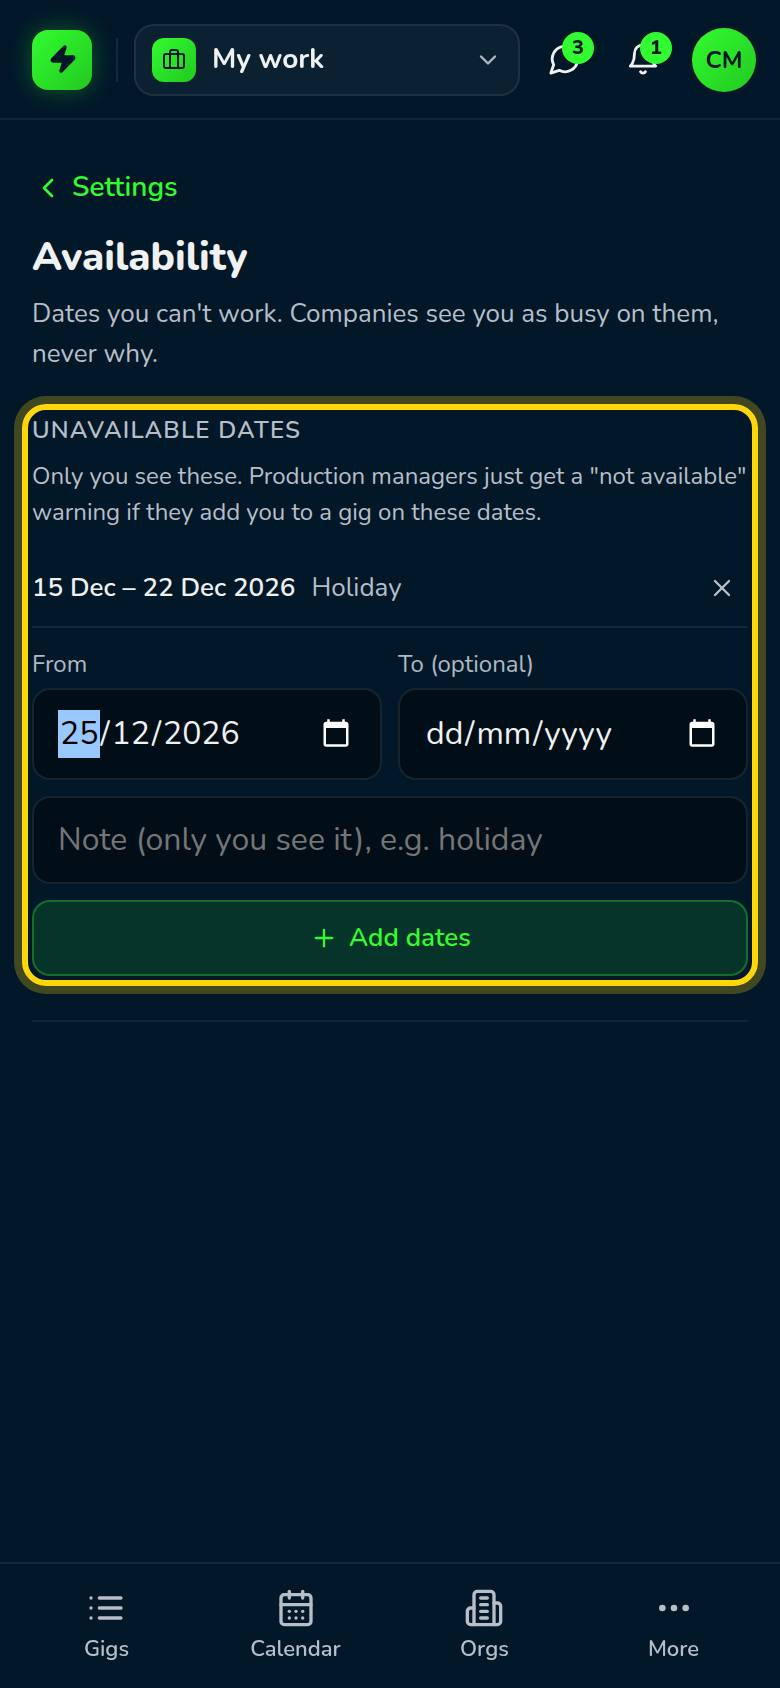
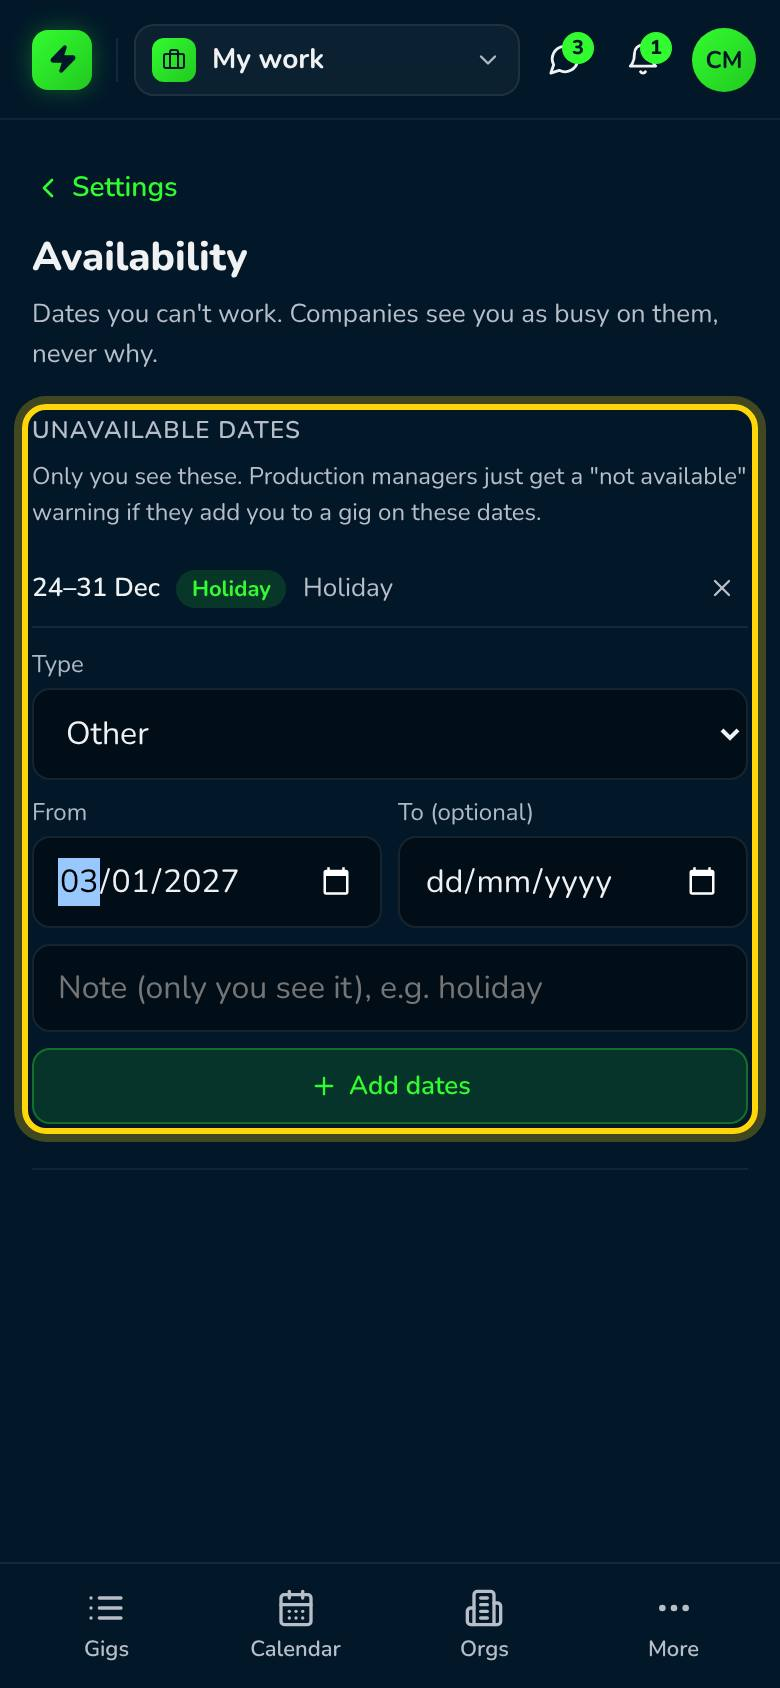
Leave requests: types, approval, holiday days, working week, who is away (step 9) — 0.67.0
Claude-Session: https://claude.ai/code/session_01TrujDKyCvofSE7GkEahm3x

diff --git a/e2e/auth/journey.spec.js b/e2e/auth/journey.spec.js
@@ -236,6 +236,29 @@ test('someone invited by email before having an account joins the gig on sign-up
   await pmContext.close()
 })
 
+test('an admin asks for leave, approves it and sees it as approved', async ({ page }) => {
+  await english(page)
+  await signIn(page, pm)
+  await page.getByTitle(/Workspace:/).click()
+  await page.getByRole('menuitemradio', { name: new RegExp(ORG) }).click()
+  await expect(page).toHaveURL(/\/org\/[0-9a-f-]{36}$/)
+  await page.goto(`${page.url()}/leave`)
+  await expect(page.getByRole('heading', { name: 'Leave', exact: true })).toBeVisible()
+  await expectAccessible(page)
+  const from = new Date(Date.now() + 40 * 86400e3).toISOString().slice(0, 10)
+  await page.getByRole('button', { name: 'Ask for leave' }).first().click()
+  const dialog = page.getByRole('dialog')
+  await dialog.locator('#leave-type').selectOption('holiday')
+  await dialog.getByLabel('From', { exact: true }).fill(from)
+  await expectAccessible(page)
+  await dialog.getByRole('button', { name: 'Send request' }).click()
+  const waiting = page.locator('section[aria-labelledby="leave-requests"]')
+  await expect(waiting.getByText('1 request waiting for you')).toBeVisible({ timeout: 15_000 })
+  await waiting.getByRole('button', { name: 'Approve' }).click()
+  await expect(waiting).toHaveCount(0)
+  await expect(page.locator('section[aria-labelledby="leave-mine"]').getByText('Approved', { exact: true })).toBeVisible()
+})
+
 test('the logo goes home and the workspace switcher lists My work and the organisation', async ({ page }) => {
   await english(page)
   await signIn(page, pm)

diff --git a/docs/PENDING.md b/docs/PENDING.md
@@ -108,6 +108,7 @@ Use your second email address as a crew member. Each line is a few minutes. New 
 | T67 | **Capture for reports (K0, 0.64.0):** migrations `20261210000000_report_capture.sql`, `20261210000001_import_gig_client.sql` and `20261210000002_import_item_cost.sql` applied to test and production through the Supabase connector on 2026-11-02; `supabase/tests/report_capture.sql` and `supabase/tests/import_jobs.sql` passed on test, and the function bodies are identical on both. Nothing left to deploy (no Edge Function changed); the screens go live when the PR is merged. Check: in a quote, set the status to Declined: it asks why (pick one, or Skip); the button next to the status shows the reason. Send a quote to yourself and decline it through the link with a note: the quote shows Declined and the note is kept. Create a gig and pick a client; edit it and change the client; as a crew member who manages a gig, the client field isn't there. In a quote with a client, "Create gig": the new gig has that client. In Inventory, edit an item: Cost price and Written off over (months); Add stock → Purchase starts with the cost price; Remove → Sold asks the price each; set a unit to Retired: it asks its sale or payout value and date. Record an inspection with a cost. Import a jobs file whose client column matches a client in Contacts, and an equipment file with a "Cost price" column. Download the organisation export: the new columns are in the items, units, movements, gigs, quotes and inspections files. Check the Portuguese wording | 0.64.0 |
 | T68 | **Crew-rate follow-ups (step 7b, 0.65.0):** migrations `20261211000000_crew_call_fees.sql` and `20261211000001_offer_fees.sql` applied to test and production through the Supabase connector on 2026-11-04; `supabase/tests/crew_call_fees.sql` passed on test, and the function bodies are identical on both. Nothing to deploy; the screens go live when the PR is merged. Check, as an organisation admin with a rate for a function (e.g. "Sound technician", 200 per day): on a gig's Crew tab → Crew call, type that function: the fee fills in (a gig with weekend days and a weekend factor gives one fixed amount); change it, then "Use the rate card's fee". Send it to a test account: their message and notification show the fee; they accept; your "Labour cost" shows them as "Agreed" with that fee, and they see it under "Your fee". Post a job and choose the function (or type the title): the pay fills in from the day rate; typing your own amount keeps it. In Find crew, "Offer a place" to someone: the same fee fields, using their own rate if they have one. In Job posts → Applicants, "Offer the place": a window shows the fee from the rate they sent (or the post's pay), editable; the old OK/Cancel box is gone. Accepting either offer makes the fee agreed under "Labour cost". In a quote, a crew line whose description is the function shows "Rate card cost … · margin …" under it, and the Summary tab shows "Crew margin"; the printed quote, the PDF and the client's link don't. Check the Portuguese wording | 0.65.0 |
 | T69 | **Time registration (step 8, 0.66.0):** migration `20261212000000_time_registration.sql` applied to test and production through the Supabase connector on 2026-11-04; `supabase/tests/time_registration.sql` (both blocks) passed on test, and the ten function bodies are identical on both. **After merging, deploy three Edge Functions to production and test** (they use the new notification texts and the feed's hours): `send-push` and `send-digest` (Verify JWT off, as now) and `calendar-feed` (Verify JWT off), or ask Claude to. Check, as an organisation admin: Settings → Crew rates: set the night window, a rate per km and add a holiday. On a gig with a test crew account: as the crew member, Crew tab → "Log hours" (start and end come from the booking or schedule), add a break, travel and km, send; turn off Wi-Fi, log another day: it shows "Not sent yet" and goes when Wi-Fi is back. On a gig day, On-site mode → "Clock in", later "Clock out". As the admin: the bell says hours came in; the gig's Hours shows each waiting day's split and cost; send one back with a note (the crew member gets it, edits, it waits again), approve it; it can't be changed after. "Labour cost" shows the actual cost next to the planned. My work → "My hours" and Organisation → "Hours" show the month, with CSV. The crew member never sees anyone else's hours or cost. Download the organisation export: the hours and holidays files are there. Subscribe to your calendar feed: the gig shows your logged hours. Check the Portuguese wording | 0.66.0 |
+| T70 | **Leave requests (step 9, 0.67.0):** migration `20261213000000_leave_requests.sql` applied to test and production through the Supabase connector on 2026-11-04; `supabase/tests/leave_requests.sql` passed on test (as did the unavailable-dates part of `rls_smoke.sql`), and the 19 function bodies are identical on both. **Apply `20261213000001_leave_requests_removal.sql` by hand** in the SQL editor of test, then production (one `alter policy`: organisation leave can only be removed by marking it; Claude doesn't run it because it names the removal policy). **After merging, deploy three Edge Functions to production and test**: `send-push` and `send-digest` (Verify JWT off, as now; the new leave notification texts) and `calendar-feed` (Verify JWT off; leave in the feed), or ask Claude to. Check, with an admin and a member test account: as the member, Organisation → Leave → "Ask for leave" (Holiday, a week): the form shows 5 working days and "an admin approves it"; send. As the admin: the bell says a request came in; Leave shows it under "requests waiting for you"; refuse one with a note and approve another: the member is told both times. The member's balance drops by the approved days. As the member, ask for a Sick day yesterday: it is approved at once and the admin is told. Under "Holiday days and working weeks", set 25 days for the organisation, then Edit the member: own allowance 23, carried 2, Monday to Thursday, 9 h; the balance follows. Add the member to a gig on an approved holiday day: the Crew tab shows "Not available" and Find crew "free only" leaves them out; logging hours on that day says it is approved leave. A half day (morning only) still allows hours. A colleague (another member) sees the leave in "Who is away" but a sick day only as "Away", with no notes; someone from another company only sees "busy". Removing approved leave (×) frees the day and tells the admins. My work → Availability shows a type on each date and the organisation leave with its status. Download the organisation export: leave, holiday days, working weeks and leave settings files are there. Subscribe to the calendar feed: approved leave shows as all-day events. Check the Portuguese wording | 0.67.0 |
 
 ## 3. Decisions still open
 
@@ -154,6 +155,7 @@ Each has a default already built; nothing is blocked. Say "keep" or "change".
 | D37 | **Crew-rate follow-ups (7b)**, built as you decided (fee seen before accepting, one fee per call) plus these defaults: (a) with weekend days at a higher rate, a call offers the total as one fixed amount rather than an average day rate; (b) quote crew lines are matched to the rate card by their description, per day and per hour only (half days, units and lump sums show no cost), and only on EUR quotes; (c) the quote's crew margin is before the phase and quote discounts (the labour panel's margin stays after the discount); (d) a job post's pay uses the day rate, not the weekend factor. Say if any should change | Built as described | 0.65.0 |
 | D38 | ✅ (decided 2026-11-04) **Import overhaul, "fix it here"**: yes, as IM1–IM4 in any gap ([SWITCHING.md](SWITCHING.md)). Every problem in the import gets a fix where it shows up; what a fix adds is saved only when Import is pressed; the database part (IM3: one undo, exact picks, archived restores, remembered fixes) is included as IM3, also switching bulk equipment to per unit; columns into custom fields in IM2; the history import (D26) as IM4. Each migration is outlined for your yes first | Planned (IM1–IM4) | 2026-11-04 |
 | D39 | **Time registration (step 8)**, built as you decided (night window per organisation from 22:00–07:00, Portuguese holidays built in plus your own, travel at the plain hour rate and km at a rate per km, day fees plus extras) with these defaults: (a) **one entry per person per gig per day** (a split shift is one start–end with the gap as break); (b) the break is taken out of the cheapest hours, and overtime starts after the break; (c) a PM may **approve their own hours**; (d) approved days **can't be reopened**, even by an admin (a mistake needs a database fix) — add an admin "reopen"?; (e) the organisation's Hours page and everyone's cost are **admins only** (members see hours only on gigs they manage), as proposed in D23; (f) a freelance PM approving someone with no agreed fee stores **no cost** (they can't read the rate card); (g) a fixed fee is counted once per gig in the labour panel but **not** in the organisation Hours page's cost, which adds up approved days only. Say if any should change | Built as described | 0.66.0 |
+| D40 | **Leave requests (step 9)**, built as you decided (half days too; 22 holiday days per organisation with a per-person number for a year; carry-over typed by an admin per person; sick days entered after the fact without approval, the admins are told) with these defaults: (a) **viewers** are not staff: they don't ask for leave or see who is away; (b) members see colleagues' approved leave, but a **sick day only as "away"** and never the notes (health data, see DATA_MAP.md); (c) an admin can **enter leave for someone**, approved at once, and can still **refuse approved leave** (a sick day by mistake); (d) asked or approved leave **can't be moved**: remove it and ask again; (e) a **half day** blocks only that morning or afternoon in clashes (13:00 is the split) but the whole day in Find crew's "free only", and still allows hours; (f) a **freelancer's own dates** don't block hours (only organisation leave does); (g) admins asking for their own leave also go through approval (another admin, or themselves); (h) only holiday counts against the balance (training, sick and other don't). Say if any should change | Built as described | 0.67.0 |
 
 ## 4. Before a public launch (already in the roadmap)
 

diff --git a/docs/BUSINESS.md b/docs/BUSINESS.md
@@ -82,24 +82,26 @@ When a step here is built, its session adds a "How … works" section below in t
 | Export and feed | Organisation export: `time_entries` and `org_holidays` files, the factors file with the new columns (the export function was renamed `export_org_part_pre_step8` and wrapped). The calendar feed lists the person's own logged days in each gig's description |
 | Reports | K2, K7 and K8 read approved `time_entries` (`split`, `cost`); a fixed fee is added once per person and gig |
 
+## How leave requests work (step 9, 0.67.0)
+
+| Piece | How it works |
+|---|---|
+| Data | `crew_unavailability` (a person's own dates since 0.12) gained `type` (holiday, sick, training, other), `org_id` (empty for a freelancer's own dates), `status` (requested → approved or refused; cancelled when removed), `start_half` / `end_half` (afternoon of the first day, morning of the last), `days` (working days used, set by the database), who decided, when and the note, and `removed_at`. Rows from before stay approved "other" dates. New tables: `org_leave_settings` (holiday days per year, default 22), `staff_leave_years` (a person's own allowance for a year and the days carried over, typed by an admin), `staff_work_weeks` (ISO weekdays, default Monday to Friday, and hours a day). Migrations `20261213000000_leave_requests.sql` and `20261213000001_leave_requests_removal.sql` (applied by hand: hard removal stays only for freelance dates) |
+| Who | Staff = an organisation's admins and members (not viewers). Each asks for their own leave; holiday, training and other start as `requested`, sick is `approved` at once (past days allowed; requests start from today); an admin may enter leave for staff, approved at once. Only `decide_leave` changes the status: admins approve, or refuse with a note (approved leave can still be refused, e.g. a sick day by mistake). Asked or approved leave can't be moved, only removed (marked) and asked again. Admins read their organisation's leave; members read the calendar through `org_leave_calendar` (no notes, a colleague's sick day as "away", requests only their own); other companies only ever get "busy" through the reservations. Checks in `supabase/tests/leave_requests.sql` |
+| Days | `private.leave_days` counts the person's working weekdays in the range, without Portugal's national holidays (`private.pt_holiday`, Easter-based ones computed, the same list as `src/lib/timeRegistration.js`) and the organisation's `org_holidays`; a half first or last day counts 0.5; without an organisation every day counts. `src/lib/leave.js` (unit tested) counts the same way for the form's preview |
+| Balances | `leave_balances(org, year)`: per member of staff, allowance (their own for the year, else the organisation's), carried, used (approved holiday that year), asked (waiting), left, their working days and hours a day. Admins get everyone, others only themselves. Leave across New Year counts in each year |
+| Blocking | Only approved, not removed entries block. Reservations (clashes on a gig's Crew tab, the network picker's ⚠) are confirmed only then, and a half day starts or ends at 13:00 Lisbon time; `person_conflicts` and Find crew's `crew_busy` filter the same way. Time registration: `time_entries_leave` refuses hours on a whole day of approved organisation leave ("On leave that day"); half days and freelance dates don't block hours |
+| Notifications | `leave_requested` and `leave_sick` to the organisation's admins, `leave_cancelled` when someone removes approved leave, `leave_approved` / `leave_refused` (with the note) to the person, `leave_approved` also when an admin enters leave for them. All count as direct (shown even when the organisation is muted); they open `/org/:id/leave` |
+| Screens | `pages/LeavePage.jsx` at `/org/:orgId/leave` (menu: Organisation → Leave, admins and members): ask for leave, your balance, who is away (month, day by day), your leave (remove with ×); admins also get the requests waiting (`components/leave/LeaveAdmin.jsx`), "Add for someone", and holiday days and working weeks (organisation's days per year; per person: own allowance, carried, working days, hours a day). `components/leave/LeaveParts.jsx` has the form and the chips. Account → Availability shows a type on each date, the person's organisation leave with its status, and a button per organisation to ask for leave |
+| Feed and export | The calendar feed adds the person's approved leave and unavailable dates as all-day events. Organisation export: `leave_settings`, `work_weeks`, `leave_years` and `leave` files (the export function was renamed `export_org_part_pre_step9` and wrapped) |
+| Reports | `staff_utilisation(org, from, to)` (admins): per member of staff, working days, approved leave days per type, days and hours available, approved hours logged on the organisation's gigs. K7 builds on it |
+
 ## Planned
 
 Specs for the business steps still to build, in ROADMAP.md order. Each is a starting point: the
 session that builds it reads its spec, checks it against the code, and **asks the owner the
 questions marked "Ask" before outlining the migration**. When built, the spec is replaced by a
 "How … works" section above.
-
-### 9 · Leave requests [5]
-
-- Builds on `crew_unavailability` (a person's own unavailable dates). Adds **types** (holiday,
-  sick, training, other) and, for an organisation's **staff** (admins and members), a request that
-  an admin approves or refuses. Freelancers keep marking dates without approval.
-- **Balances** per staff member per year for holiday days (Ask: whole days only? carry-over?).
-- Approved leave blocks the person like unavailability: clashes, Find crew "free", the network
-  picker's ⚠, and time registration (no hours on leave days).
-- Organisation calendar of who is away; notifications to the person and the admins.
-- A **working week** per staff member (default Monday to Friday), so reports (K7) can count
-  utilisation.
 
 ### 9b · Expenses
 

diff --git a/CHANGELOG.md b/CHANGELOG.md
@@ -1,5 +1,42 @@
 # Changelog
 
+## 0.67.0 — Leave
+
+### Added
+- **Leave requests** (step 9, [docs/BUSINESS.md](docs/BUSINESS.md)). An organisation's staff
+  (admins and members) ask for leave in the new **Leave** page: holiday, sick, training or other,
+  with a half day at the start or end if needed. The form shows how many working days it uses.
+  Holiday, training and other wait for an admin, who approves or refuses (with a reason the person
+  sees); both sides get a notification. A sick day counts at once, even for days already past, and
+  the admins are told. Admins can also enter leave for someone, which counts at once.
+- **Holiday days.** Each organisation has its holiday days per year (22 to start). An admin can
+  give a person their own number for a year and type the days carried over from last year
+  (nothing carries over by itself). Everyone sees their own balance: allowance, carried, taken,
+  waiting and left; admins see everyone's.
+- **Working week** per member of staff: their working days (Monday to Friday to start) and hours
+  a day. Leave only counts working days, leaving out weekends off, Portugal's national holidays
+  and the organisation's own.
+- **Who is away**: the month day by day, for the organisation's admins and members. Members see a
+  colleague's sick day only as "away", and never the notes.
+- **Types for your own dates.** Freelancers' unavailable dates (My work → Availability) now have a
+  type too, and still need no approval. Staff see their organisation leave there with its status,
+  and a button to ask each organisation for leave.
+
+### Connected
+- Approved leave makes the person busy everywhere unavailable dates did: clashes on a gig's Crew
+  tab, Find crew's "free only", and the ⚠ in the network picker (a half day only blocks that
+  morning or afternoon). A request waiting for approval doesn't block anyone yet. Other companies
+  still only see "busy", never the type.
+- Time registration: no hours can be logged on a whole day of approved leave (a half day still
+  allows them).
+- Notifications in the app, by push and in the email summary; your calendar feed (your approved
+  leave and unavailable dates as all-day events); the organisation export (new leave, holiday
+  days, working weeks and settings files).
+- Reports (K7): the database can now count each person's working days, leave by type, days and
+  hours available and approved hours logged, ready for the K7 people reports.
+- Help: two guides with pictures ("Ask for leave", "Approve leave and keep holiday days right"),
+  five ⓘ hints and three glossary words.
+
 ## 0.66.0 — Hours
 
 ### Added

diff --git a/docs/DATA_MAP.md b/docs/DATA_MAP.md
@@ -35,6 +35,7 @@ is kept on our own servers; Vercel only serves the app's files.
 | Memberships and roles, invitations (email) | Members, invitees | `org_members`, `org_invites`, `gig_members`, `gig_invites` | The organisation's members; a gig's people | Contract | Membership ends / invite used or withdrawn |
 | Gigs: name, venue, dates, description, custom fields, schedule, crew list with call times, files, posts, activity log | Crew, clients named in them | `gigs`, `gig_schedule`, `gig_members`, `assets` (+ `gig-assets` bucket), `feed_posts`, `gig_activity` | Everyone on the gig and the organisation's members | Contract | Gig or organisation deleted |
 | Unavailable dates, availability questions and answers | Crew | `crew_unavailability`, `availability_requests` | The person; other companies only see "booked" | Contract | Account deleted |
+| Leave: type (holiday, sick, training, other), dates, half days, notes, the decision and its note; holiday allowance and carry-over per year; working week and hours a day | Staff | `crew_unavailability` (with an organisation), `staff_leave_years`, `staff_work_weeks`, `org_leave_settings` | The person and the organisation's admins; the organisation's members see who is away (a sick day only as "away", no notes); other companies only see "booked" | Contract (employment records); a sick day is health data, kept to the organisation's admins | Removed leave is hidden; organisation or account deleted |
 | Tasks: title, notes, checklist, who it's for, due date, who ticked it | Crew and staff | `tasks`, `task_templates` | The gig's people (gig tasks) or the organisation's members (organisation tasks) | Contract | Removed tasks are hidden; deleted with the gig or organisation |
 | Rehearsal notes (text, photo, author, assignee) | Crew | `rehearsal_notes`, `rehearsal_sessions`, `rehearsal-photos` bucket | Everyone on the gig | Contract | Gig deleted |
 | Repairs and inspections: who reported, repairer and inspector names (free text), photos | Staff, outside repairers | `repairs`, `inspections`, `repair-photos` bucket | The organisation's members | Contract (the organisation's records) | Organisation deleted |

diff --git a/ROADMAP.md b/ROADMAP.md
@@ -24,6 +24,7 @@ up front. What each release changed is in [CHANGELOG.md](CHANGELOG.md).
 | Steps 1–4: rehearsal companion R1–R2, DMX calculator D1, On-site mode | 0.54–0.57 | [docs/TOOLS_PLAN.md](docs/TOOLS_PLAN.md) |
 | Steps 5–7b: tasks T1–T2, gig statuses and types, custom fields, crew rates and labour cost, fees in crew calls, job posts and quotes | 0.58–0.65 | [docs/BUSINESS.md](docs/BUSINESS.md) |
 | Step 8: time registration (hours per day, approval, actual labour cost) | 0.66.0 | [docs/BUSINESS.md](docs/BUSINESS.md) |
+| Step 9: leave requests (types, approval, holiday days, working week, who is away) | 0.67.0 | [docs/BUSINESS.md](docs/BUSINESS.md) |
 | K0: capture for reports (quote dates and lost reasons, a client on gigs, equipment costs) | 0.64.0 | [docs/ANALYTICS.md](docs/ANALYTICS.md) |
 | Truss load tables (data only, waiting for a second check) | 0.60 | [docs/TRUSS_DATA.md](docs/TRUSS_DATA.md) |
 | Privacy and security check: data map, OWASP review, sign-in failure tests | 0.62.1 | [docs/DATA_MAP.md](docs/DATA_MAP.md), [docs/SECURITY_REVIEW.md](docs/SECURITY_REVIEW.md) |
@@ -40,7 +41,6 @@ the data it counts.
 
 | # | What | Needs | Connect | Plan | Prompt |
 |---|---|---|---|---|---|
-| 9 | **Leave requests** [5] | availability | Clashes, Find crew "free", time registration, reports (working week) | BUSINESS.md | S03 |
 | 9b | **Expenses**: every company cost with its receipt, category, VAT, due and paid dates; recurring costs; linked so each cost counts once | 9, contacts, subrentals, repairs | Subrentals, repairs, crew fees, stock purchases, contacts, organisation export, data map | BUSINESS.md, ANALYTICS.md | S03b |
 | K1 | **Reports engine** [11]: the definitions, one revenue rule, report parts and charts, the Reports area with its Overview; I7 counted in the database | K0, 9b | Inventory → Reports, labour cost panel, organisation Home, menus, usage counts | ANALYTICS.md | K1 |
 | 10 | **Gig finance overview** [4] | 7, 8, 9b, K1, quotes, subrentals | Dashboard, expenses, reports (K2 builds on it) | BUSINESS.md | S04 |

diff --git a/docs/ANALYTICS.md b/docs/ANALYTICS.md
@@ -397,6 +397,9 @@ Needs: K1, 8, 9.
 - A person page for admins: their days, hours and cost with the organisation (a DATA_MAP.md row).
 - Tiles: crew days this month, open positions in the next 14 days, overdue tasks, hours waiting for
   approval.
+- Built in step 9: `staff_utilisation(org, from, to)` gives each member of staff's working days, leave
+  per type, days and hours available and approved hours logged (docs/BUSINESS.md, "How leave
+  requests work").
 - Ask: per-person figures for admins only or members too; the wrap-up page; a "cancelled" status.
 
 ## K8 · Crew numbers
